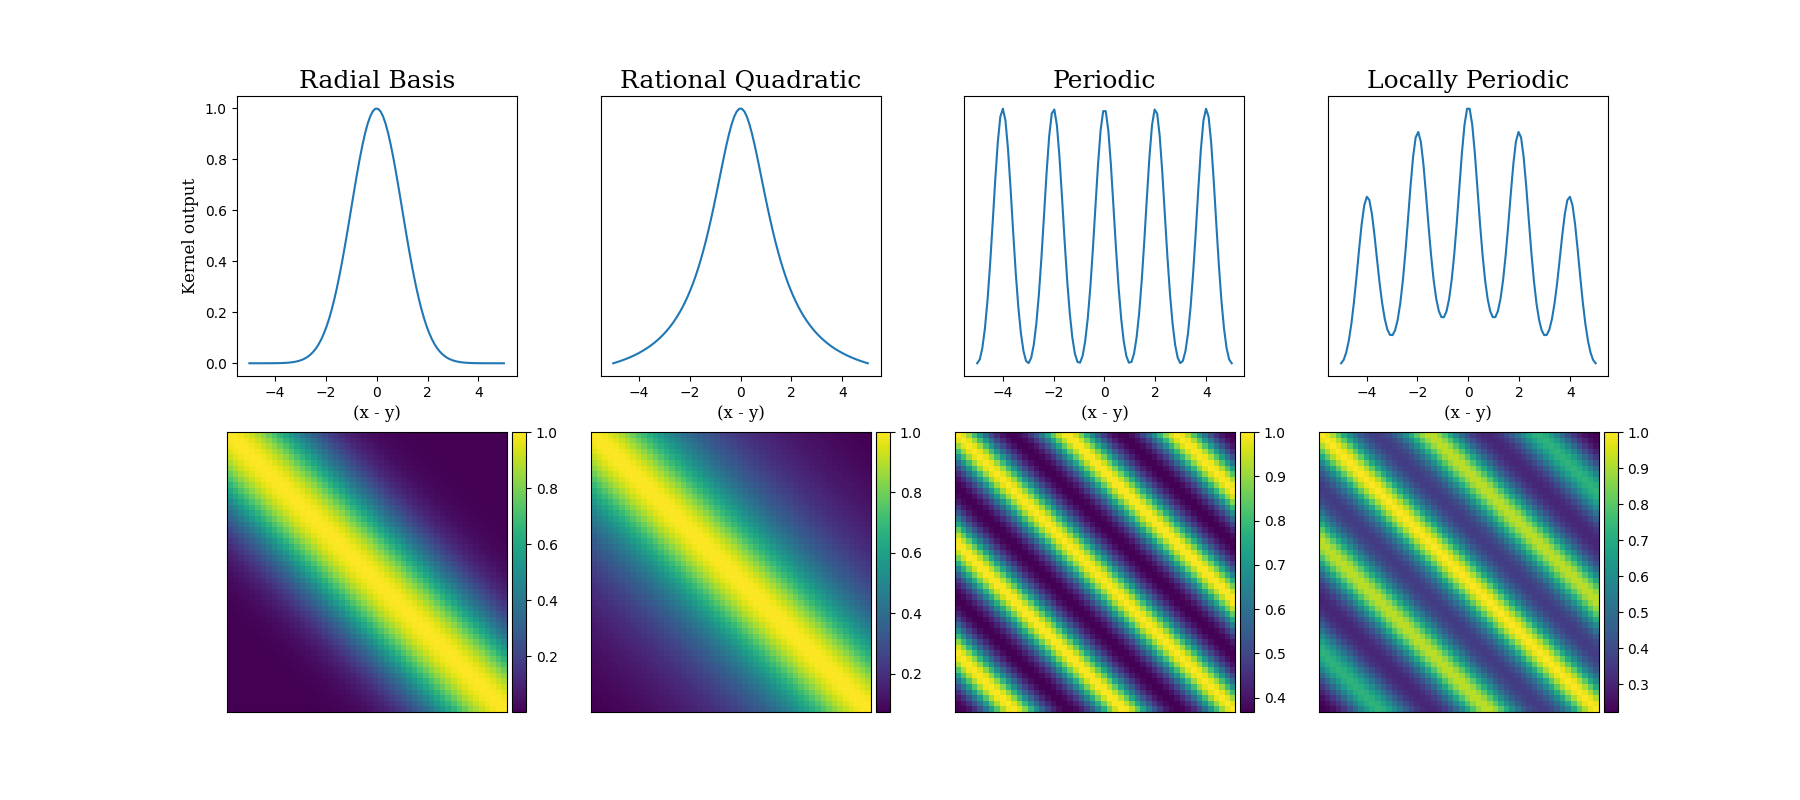
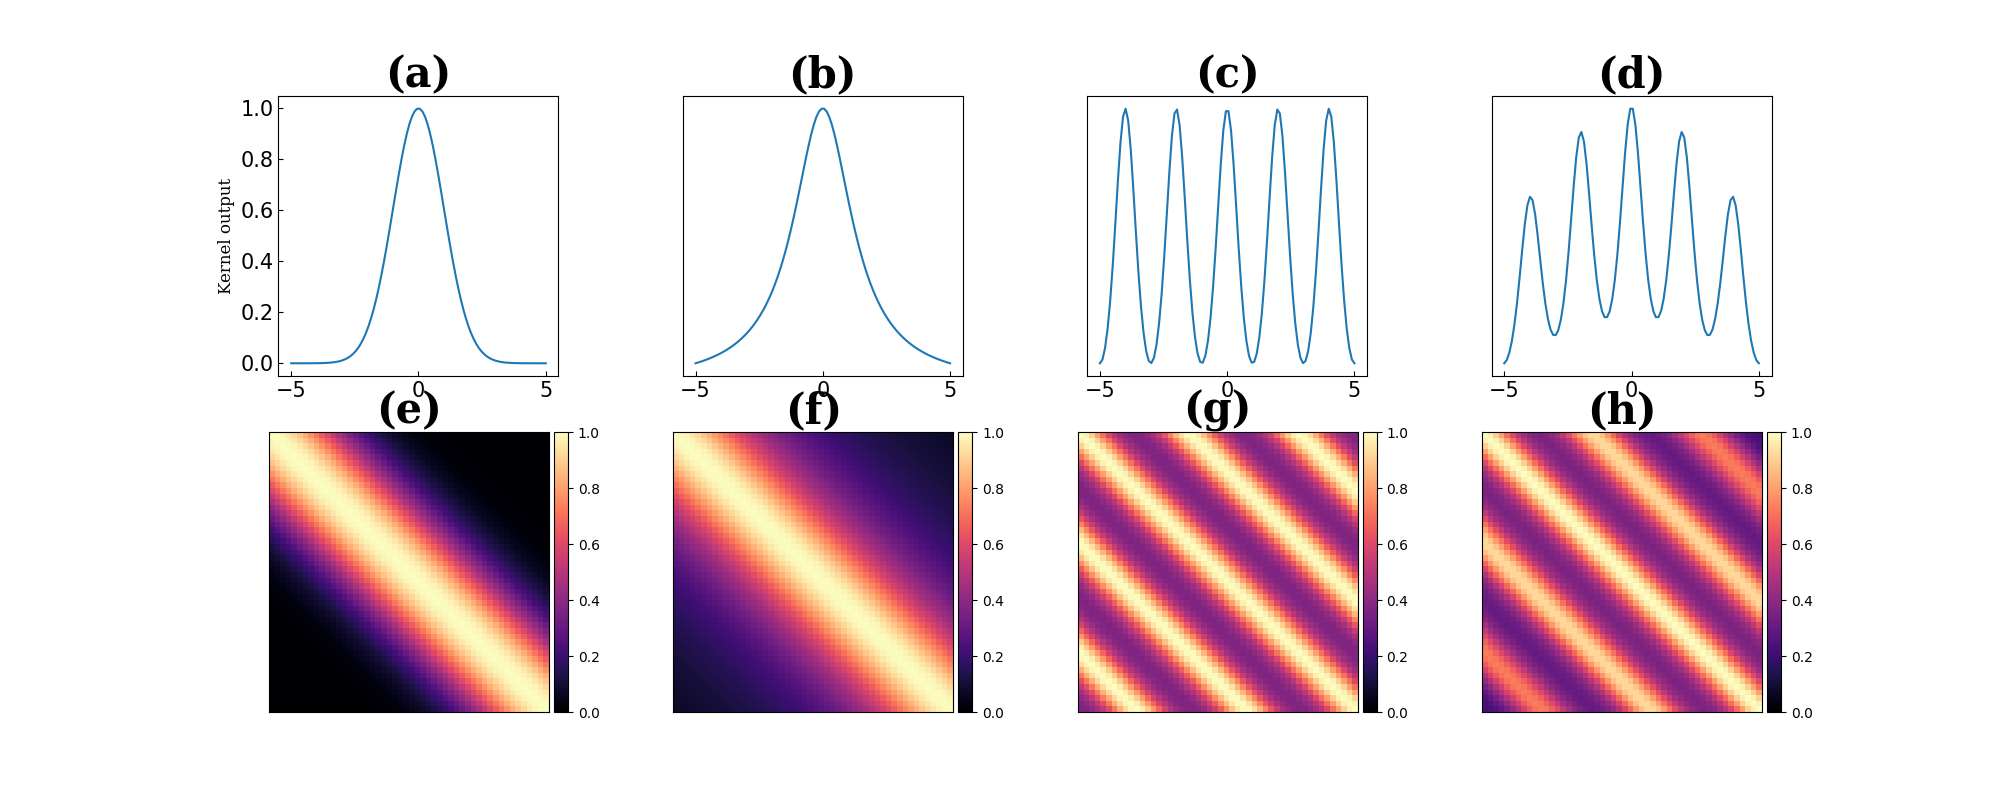
made the file more consistent and added prior-posterior function

diff --git a/src/visualisation.py b/src/visualisation.py
@@ -1,32 +1,38 @@
-from kernelFuncts import RadialBasisFunction, KernelFunction, RationalQuadraticFunction, PeriodicFunction, CompositeKernel, LinearFunction
+from src.kernelFuncts import RadialBasisFunction, KernelFunction, RationalQuadraticFunction, PeriodicFunction, CompositeKernel, LinearFunction
 import matplotlib.pyplot as plt
 import numpy as np
 from mpl_toolkits.axes_grid1 import make_axes_locatable
+from src.GaussianProcess import GaussianProcess
+from src.data import generateLinearData, generateSinData
+
+alphabet = "abcdefghi"
 
 def visualiseKernel(kernel:KernelFunction):
     """This function visualises the kernel."""
     matrixOfValues = kernel(np.linspace(0,5, 50))
-    values = kernel(np.array([0]), np.linspace(-5,5,100))
+    values = kernel(np.array([0]), np.linspace(-5,5,1000))
 
-    fig, axes = plt.subplots(1,2, width_ratios=[1,1], height_ratios=[1])
+    fig, axes = plt.subplots(1,2, width_ratios=[1,1], height_ratios=[1], figsize = (20,8))
 
     # first axis is graph of values
-    axes[0].plot(np.linspace(-5,5,100), values)
+    axes[0].plot(np.linspace(-5,5,1000), values)
     axes[0].set_box_aspect(1)
-    axes[0].set_xlabel("(x-y)")
-    axes[0].set_ylabel("Kernel output")
+    axes[0].set_xlabel("(x-y)", fontsize = 20, fontfamily = "serif")
+    axes[0].set_ylabel("Kernel output", fontsize = 20, fontfamily = "serif")
     
     # second axis is visual pattern
-    im = axes[1].imshow(matrixOfValues)
+    im = axes[1].imshow(matrixOfValues, cmap = "magma", vmin = 0, vmax = 1)
     axes[1].set_xticks([])
     axes[1].set_yticks([])
     divider = make_axes_locatable(axes[1])
     cax = divider.append_axes('right', size='5%', pad=0.05)
-    fig.colorbar(im, cax=cax, orientation='vertical')
+    cbar = fig.colorbar(im, cax=cax, orientation='vertical')
+    cbar.ax.tick_params(labelsize=20) 
+    for index, axis in enumerate(axes):
+        fixTickParams(axis, index)
 
-    # fig.suptitle(f"σ = {kernel.sigma} Lengthscsale = {kernel.lengthscale}", fontsize=16)
     fig.tight_layout()
-    fig.savefig(f"figures/{kernel.kernType}.png")
+    fig.savefig(f"figures/{kernel.kernType.replace(" ", "")}.png")
     # plt.show()
 
 
@@ -39,28 +45,30 @@ def showAll():
     comp.kernType = "Locally Periodic"
     kernels = [rbf, rq, p, comp]
 
-    fig, axes = plt.subplots(2, len(kernels), figsize = (18,8))
+    fig, axes = plt.subplots(2, len(kernels), figsize = (20,8))
     for i, kernel in enumerate(kernels):
         matrixOfValues = kernel(np.linspace(0,5, 50))
         values = kernel(np.array([0]), np.linspace(-5,5,100))
         axes[0][i].plot(np.linspace(-5,5,100), values)
         axes[0][i].set_box_aspect(1)
-        axes[0][i].set_xlabel("(x - y)", fontsize = 12, fontfamily = "serif")
+        # axes[0][i].set_xlabel("(x - y)", fontsize = 12, fontfamily = "serif")
 
         
         # second axis is visual pattern
-        im = axes[1][i].imshow(matrixOfValues)
+        im = axes[1][i].imshow(matrixOfValues, cmap = "magma", vmin = 0, vmax = 1)
         axes[1][i].set_xticks([])
         axes[1][i].set_yticks([])
         divider = make_axes_locatable(axes[1][i])
         cax = divider.append_axes('right', size='5%', pad=0.05)
         fig.colorbar(im, cax=cax, orientation='vertical')
 
-        axes[0][i].set_title(kernel.kernType, fontsize = 18, fontfamily = "serif")
 
     for i in range(1,len(kernels)):
         axes[0][i].set_yticks([])
     axes[0][0].set_ylabel("Kernel output", fontsize = 12, fontfamily = "serif")
+
+    for index, axis in enumerate(axes.flatten()):
+        fixTickParams(axis, index)
 
     fig.savefig("figures/Comparisons.png")    
 
@@ -69,7 +77,7 @@ def testHypes():
     
     kernels = [RadialBasisFunction(1,1), RadialBasisFunction(1,2), RadialBasisFunction(0.75,1), RadialBasisFunction(0.75,2)]
 
-    fig, axes = plt.subplots(2, len(kernels), figsize = (18,8))
+    fig, axes = plt.subplots(2, len(kernels), figsize = (20,8))
     for i, kernel in enumerate(kernels):
         matrixOfValues = kernel(np.linspace(0,5, 50))
         values = kernel(np.array([0]), np.linspace(-5,5,100))
@@ -86,20 +94,94 @@ def testHypes():
         cax = divider.append_axes('right', size='5%', pad=0.05)
         fig.colorbar(im, cax=cax, orientation='vertical')
 
-        axes[0][i].set_title(f"Sigma: {kernel.sigma}, lengthscale: {kernel.lengthscale}", fontsize = 15, fontfamily = "serif")
 
     for i in range(1,len(kernels)):
         axes[0][i].set_yticks([])
     axes[0][0].set_ylabel("Kernel output", fontsize = 12, fontfamily = "serif")
-
+    for index, axis in enumerate(axes.flatten()):
+        fixTickParams(axis, index)
     fig.savefig("figures/hyperparams.png")   
 
+def showGPLengthscales():
+    fig, axes = plt.subplots(1,3, figsize = (20,8))
+    x = np.linspace(0,20,250)
+    y = generateSinData(x, 5, 0.1)
+    gps = [GaussianProcess(RadialBasisFunction(lengthscale=0.1)), GaussianProcess(RadialBasisFunction(lengthscale=1)), GaussianProcess(RadialBasisFunction(lengthscale=10))]
+    for i in range(3):
+        gps[i].observeData(x,y)
+        means, variances = gps[i].inference(x)
+        axes[i].scatter(x,y, s=4, marker="x", c="black")
+        axes[i].plot(x, means)
+        axes[i].fill_between(x, means-np.diagonal(variances)*2, means+np.diagonal(variances)*2, alpha = 0.1, color = "b")
+        axes[i].set_xticks([])
+        axes[i].set_yticks([])
+    for index, axis in enumerate(axes):
+        fixTickParams(axis, index)
+    fig.tight_layout()
+    fig.savefig("figures/lengthscales.png")
+
+
+def priorDistSample(gp: GaussianProcess, nsamples: int = 3):
+    """This function plots and samples functions from the means and covariance.
+    Args:
+        gp: the gaussian process having observed data.
+    """
+
+    fig, axes = plt.subplots(ncols=2, figsize = (20,10), sharey=True)
+    
+    # calculate the mean and covariance for prior.
+    sigma = gp.noise_variance
+    
+    kernel = gp.kernelFunction
+    x = np.linspace(0,100,100)
+    means = np.zeros(100)
+    kernelMatrix = kernel(x)
+    axes[0].plot(x,means)
+    axes[0].fill_between(x, means-kernelMatrix.diagonal(), means+kernelMatrix.diagonal(), alpha = 0.1)
+    postMeans,PostVariance = gp.inference(x)
+    axes[1].plot(x,postMeans, label="Mean function")
+    axes[1].fill_between(x, postMeans-PostVariance.diagonal(), postMeans+PostVariance.diagonal(), alpha = 0.1, label="Variance range")
+    axes[1].scatter(gp.x, gp.y, marker = "x", c="black", s=40, label="Observed data")
+    f = np.random.multivariate_normal(means, kernelMatrix)
+    axes[0].plot(x, f, linestyle = "dashed", color = "black", linewidth = 1, label="Sample")
+    f = np.random.multivariate_normal(postMeans, PostVariance)
+    axes[1].plot(x, f, linestyle = "dashed", color = "black", linewidth = 1)
+
+    for i in range(nsamples-1):
+        f = np.random.multivariate_normal(means, kernelMatrix)
+        axes[0].plot(x, f, linestyle = "dashed", color = "black", linewidth = 1)
+        f = np.random.multivariate_normal(postMeans, PostVariance)
+        axes[1].plot(x, f, linestyle = "dashed", color = "black", linewidth = 1)
+
+    # fig.legend(loc="center right")
+    for index, axis in enumerate(axes):
+        fixTickParams(axis, index)
+    fig.savefig("figures/priorVsPosterior.png")
+
+
+    
+def fixTickParams(axis, index):
+    """This function fixes axis for consistency."""
+    axis.tick_params(direction = "in", labelsize=15)
+    axis.set_title(f"({alphabet[index]})", size = 30, fontfamily = "serif", fontweight = "bold")
+
+    
+
+
 if __name__ == "__main__":
-    # rbf = RadialBasisFunction(lengthscale=5)
-    # rq = RationalQuadraticFunction(alpha=1)
-    # p = PeriodicFunction()
-    # lin = LinearFunction()
-    # comp = CompositeKernel(p, rbf, "x")
-    # visualiseKernel(lin)
-    # showAll()
+    rbf = RadialBasisFunction(lengthscale=1)
+    rq = RationalQuadraticFunction(alpha=1)
+    p = PeriodicFunction()
+    lin = LinearFunction()
+    comp = CompositeKernel(p, RadialBasisFunction(lengthscale=4), "x")
+    visualiseKernel(rbf)
+    visualiseKernel(rq)
+    visualiseKernel(p)
+    visualiseKernel(lin)
+    visualiseKernel(comp)
+    showAll()
     testHypes()
+    showGPLengthscales()
+    gp = GaussianProcess(RadialBasisFunction(lengthscale=5, sigma=1), noise_variance=0.01)
+    gp.observeData(np.array([20,30,70, 50]), np.array([0.5,0.5,2,1]))
+    priorDistSample(gp)

diff --git a/src/GaussianProcess.py b/src/GaussianProcess.py
@@ -7,12 +7,12 @@ import matplotlib.pyplot as plt
 
 
 class GaussianProcess():
-    def __init__(self, kernelFunction: KernelFunction, variance = 1):
+    def __init__(self, kernelFunction: KernelFunction, noise_variance = 1):
         self.kernelFunction = kernelFunction
-        self.x = np.atleast_1d(0)
-        self.y = np.atleast_1d(0)
-        self.kAA = np.atleast_1d(variance)
-        self.variance = variance
+        self.x = None
+        self.y = None
+        self.kAA = np.atleast_1d(noise_variance)
+        self.noise_variance = noise_variance
         
 
     def observeData(self, x: Union[int, np.ndarray], y: Union[int, np.ndarray]):
@@ -21,13 +21,19 @@ class GaussianProcess():
         self.kAA = self.kernelFunction(x)
 
     def inference(self, x: Union[int, np.ndarray]):
-        np.atleast_1d(x)
+        x = np.atleast_1d(x)
         kAB = self.kernelFunction(self.x, x)
         kBB = self.kernelFunction(x)
-        kAAp = self.kAA + np.identity(len(self.kAA))*self.variance
+        kAAp = self.kAA + np.eye(len(self.x))*self.noise_variance
 
-        mu = np.matmul(kAB,np.matmul(np.linalg.inv(kAAp),self.y))
-        sigma = kBB - np.matmul(kAB,np.matmul(np.linalg.inv(kAAp),np.matrix.transpose(kAB)))
+        L = np.linalg.cholesky(kAAp)
+
+        alpha = np.linalg.solve(L.T, np.linalg.solve(L, self.y))
+
+        mu = kAB @ alpha
+
+        v = np.linalg.solve(L, kAB.T)
+        sigma = kBB - v.T @ v
 
         return mu, sigma
 
@@ -41,11 +47,11 @@ class GaussianProcess():
         plt.plot(self.x, means)
         plt.fill_between(self.x, means-np.diagonal(variances), means+np.diagonal(variances), alpha = 0.1, color = "b")
         plt.savefig("figures/fitVis.png")
-
-
+        
+    
 
 if __name__ == "__main__":
-    gp = GaussianProcess(RadialBasisFunction(sigma=1, lengthscale=10), variance=1)
+    gp = GaussianProcess(RadialBasisFunction(sigma=1, lengthscale=10))
     x = np.linspace(0,20, 1000)
     y = generateSinData(x, sigma=0.5)
     gp.observeData(x,y)
